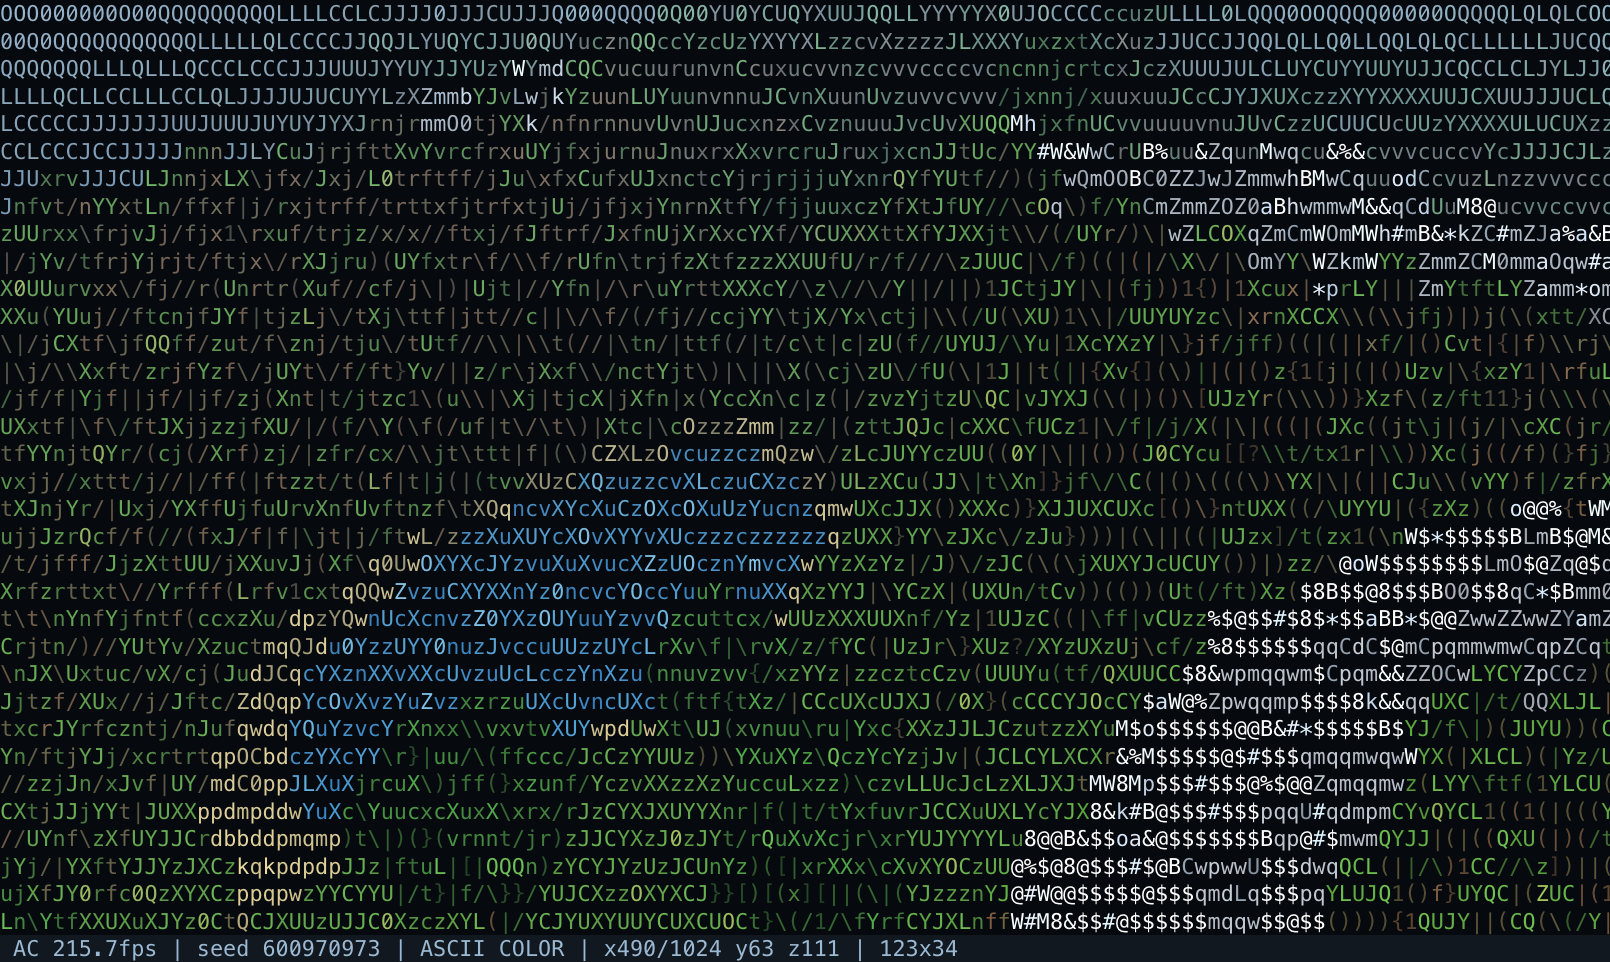
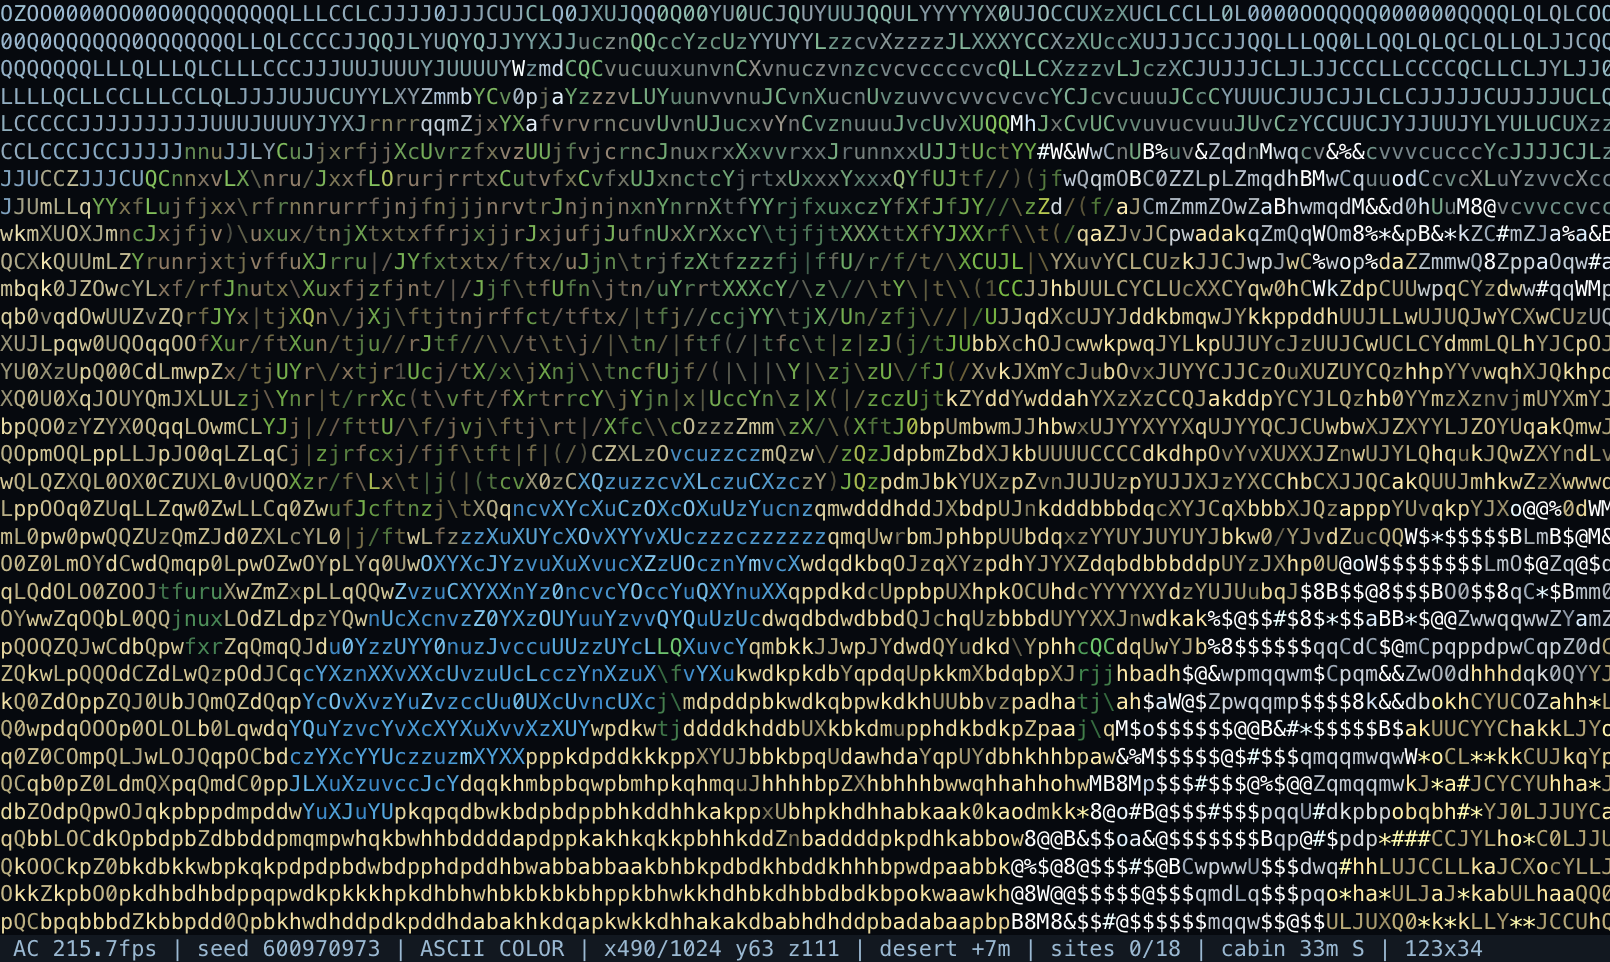
Catch the docs and screenshots up with the world
Records biomes, landmarks, birds, cacti, cave ore and the new HUD in the changelog and both READMEs. The screenshot helper now uses the renderer's actual glyph lift and writes the same biome, site and landmark fields as the live HUD, so the README captures match what players see. The PTY test repeats its move key to survive a slow first frame.

diff --git a/tools/screenshot.py b/tools/screenshot.py
@@ -18,6 +18,7 @@ from __future__ import annotations
 
 import argparse
 import html
+import math
 import os
 import shutil
 import subprocess
@@ -67,9 +68,9 @@ def rgb(cell: int) -> tuple[int, int, int]:
 
 def lifted(cell: int) -> tuple[int, int, int]:
     r, g, b = rgb(cell)
-    return (min(255, int(r * 1.10 + 8)),
-            min(255, int(g * 1.10 + 8)),
-            min(255, int(b * 1.10 + 8)))
+    return (min(255, int(r * 1.14 + 10)),
+            min(255, int(g * 1.14 + 10)),
+            min(255, int(b * 1.14 + 10)))
 
 
 def cell_char(cell: int) -> str:
@@ -153,9 +154,32 @@ def main() -> int:
     renderer = RaycastRenderer(world, cam, args.width, view_rows,
                                MODE_ASCII_COLOR)
     pixels = renderer.render(0.0)
+    bx, bz = int(x), int(z)
+    ground = world.height_map[bx + world.width * bz]
+    elev = int(round(y - ground))
+    here = f"{world.biome_name(bx, bz)} {elev:+d}m"
+    sites = 0
+    nearest = None
+    best = float("inf")
+    for cx, cz, kind in world.structures:
+        dx, dz = cx - x, cz - z
+        dist = math.hypot(dx, dz)
+        if dist < 14.0:
+            sites += 1
+        if dist < best:
+            best = dist
+            if abs(dx) >= abs(dz):
+                arrow = "E" if dx >= 0.0 else "W"
+            else:
+                arrow = "S" if dz >= 0.0 else "N"
+            nearest = f"{kind} {dist:.0f}m {arrow}"
+    if world.structures:
+        here += f" | sites {sites}/{len(world.structures)}"
+    if nearest is not None:
+        here += f" | {nearest}"
     status = (f" AC {args.fps:4.1f}fps | seed {args.seed} | ASCII COLOR | "
               f"x{x:.0f}/{world.width} y{y:.0f} z{z:.0f} | "
-              f"{args.width}x{view_rows}")
+              f"{here} | {args.width}x{view_rows}")
     page = build_html(pixels, args.width, view_rows, status)
 
     out = Path(args.out)

diff --git a/tools/pty_test.py b/tools/pty_test.py
@@ -31,6 +31,7 @@ def run(argv: list[str], rows: int = 30, cols: int = 100) -> int:
     script = [
         (5.0, b""),        # let the first frames render
         (5.5, b"w"),       # move forward
+        (6.0, b"w"),       # repeat in case the first lands during generation
         (6.5, b"\x1b[A"),  # look up
         (7.5, b"m"),       # ascii-color -> half
         (8.5, b"m"),       # half -> ascii mono

diff --git a/README.md b/README.md
@@ -35,7 +35,9 @@ printable characters and ANSI colour codes.
 
 - **21 million voxels** generated from a single seed
 - **About five minutes** to walk across at walking speed
-- Hills, lakes, beaches, caves, forests and snow-capped ridges
+- Hills, lakes, beaches, caves, forests and snow-capped ridges, split into
+  plains, forest, savanna and desert biomes
+- Cabins and ruins to find, with birds circling overhead and cacti in the dunes
 - Truecolor ASCII with directional face lighting, ambient occlusion, procedural
   grain, animated water and distance fog
 - Terminal build in **pure Python** (standard library only) and a matching
@@ -112,6 +114,11 @@ them are in [`assets/README.md`](assets/README.md).
 | `R` | generate a new random world |
 | `[` `]` | lower / raise render quality |
 | `Q`, `Esc` | quit |
+
+The status line reports the biome under the camera and your height above local
+ground, names the nearest cabin or ruin with a distance and compass letter, and
+counts the sites you have reached (`sites 3/12`). Walking within 14 metres of a
+landmark marks it as explored for the current seed.
 
 Terminals cannot report a bare Shift key, so `C`/`X` is the portable descend
 key and `E` is hold-to-sprint.
@@ -226,9 +233,12 @@ serve the repository root: the root `index.html` redirects to `web/`.
 **World.** A domain-warped continental fBm plus a ridged mountain mask builds the
 height map. Columns are filled with stone, dirt, grass, sand and snow; water
 fills to sea level; two intersecting 3D noise isosurfaces carve tunnels and
-caverns; a jittered lattice plants trees. A dense `bytearray` holds the voxels,
-an 8³ occupancy array lets the tracer skip empty air, and 16³ chunks are kept
-for inspection.
+caverns; a jittered lattice plants trees, and a low-frequency heat/moisture map
+selects a biome that tints the grass and controls tree and cactus density.
+Cabins and ruins are levelled onto flat dry ground, cave air gets dripstone and
+ore, and a handful of birds orbit fixed points. A dense `bytearray` holds the
+voxels, an 8³ occupancy array lets the tracer skip empty air, and 16³ chunks are
+kept for inspection.
 
 **Tracing.** Each cell gets a ray from an orthonormal camera basis. A coarse DDA
 walks 8³ macro cells until it finds an occupied one, then an exact voxel DDA
@@ -247,7 +257,7 @@ asciicraft/
 ├── CONTRIBUTING.md         setup, checks and review expectations
 ├── CHANGELOG.md            release history
 ├── voxelterm/              Python engine and terminal app
-│   ├── world.py            terrain, caves, trees, macro cache
+│   ├── world.py            terrain, biomes, caves, structures, entities
 │   ├── raycaster.py        hierarchical voxel DDA + shader
 │   ├── ansi.py             70-glyph ramp + ANSI encoder
 │   ├── terminal.py         raw terminal + key parser
@@ -271,6 +281,7 @@ python3 tools/check_repo.py                                # required files + lo
 python3 tools/profile_render.py --small --frames 5         # generation/render/encode timings
 python3 tools/pty_test.py --small --width 70 --height 18   # input/quit/mode test
 python3 tools/web_parity.py                                # Python ↔ JS parity
+jsc tools/web_dom_test.js                                  # browser DOM smoke test
 ```
 
 The `tools/*.js` files run under the macOS JavaScriptCore shell (`jsc`) and are

diff --git a/CHANGELOG.md b/CHANGELOG.md
@@ -8,15 +8,38 @@ All notable changes to ASCIICRAFT are recorded here. The format follows
 
 ### Added
 
+- Four surface biomes — plains, forest, savanna and desert — driven by a
+  low-frequency heat/moisture map. Biomes tint the grass and control tree and
+  cactus density.
+- Cabins and ruins as explorable landmarks. The HUD points to the nearest one,
+  counts sites as you reach them, and turns the counter over on a reseed.
+- Orbiting birds, drawn as projected blobs with per-frame occlusion, including
+  one flock visible from the spawn vista.
+- Cacti with ridged stems and arms in the desert biome.
+- Cave decoration: stalagmites, stalactites and exposed gold ore veins.
+- `tools/profile_render.py` reports per-stage world generation, raycast and
+  ANSI-encode timings; `tools/check_repo.py` runs it as part of the checks.
 - The browser intro card now holds for at least 2.2 seconds, even though world
   generation finishes in a fraction of that time.
 
 ### Changed
 
+- The ANSI encoder caches escape strings, emits a single background sequence
+  per row and writes through a byte buffer, cutting encode time by roughly a
+  quarter.
+- Cave carving samples a 3-voxel lattice instead of testing every voxel,
+  shortening the cave stage without changing the tunnel shapes.
+- Camera movement uses an exponential velocity response in both builds; arrow
+  key look ramps in over about a tenth of a second and glides on release.
 - Brighter, more saturated in-game colours: raised face-light levels, an
   exposure/vibrance grade before fog, and a stronger ANSI glyph lift. The new
   palette applies to the terminal and browser builds in every render mode.
 - Regenerated the README screenshots with the new palette.
+
+### Fixed
+
+- `tools/screenshot.py` used a stale glyph lift constant, so README captures
+  were darker than the real renderer. It now matches `ansi.py` exactly.
 
 ## [1.0.0] - 2026-11-14
 

diff --git a/web/README.md b/web/README.md
@@ -58,6 +58,10 @@ the URL updates to match. **R** generates a new random seed.
 
 The seed box and **Resume** button appear when paused.
 
+The status line shows the biome under the camera, height above local ground,
+the nearest cabin or ruin with distance and compass letter, and how many sites
+you have reached on this seed (`sites 3/12`).
+
 ## Notes
 
 The engine is a faithful port of the Python implementation. `tools/web_parity.py`
